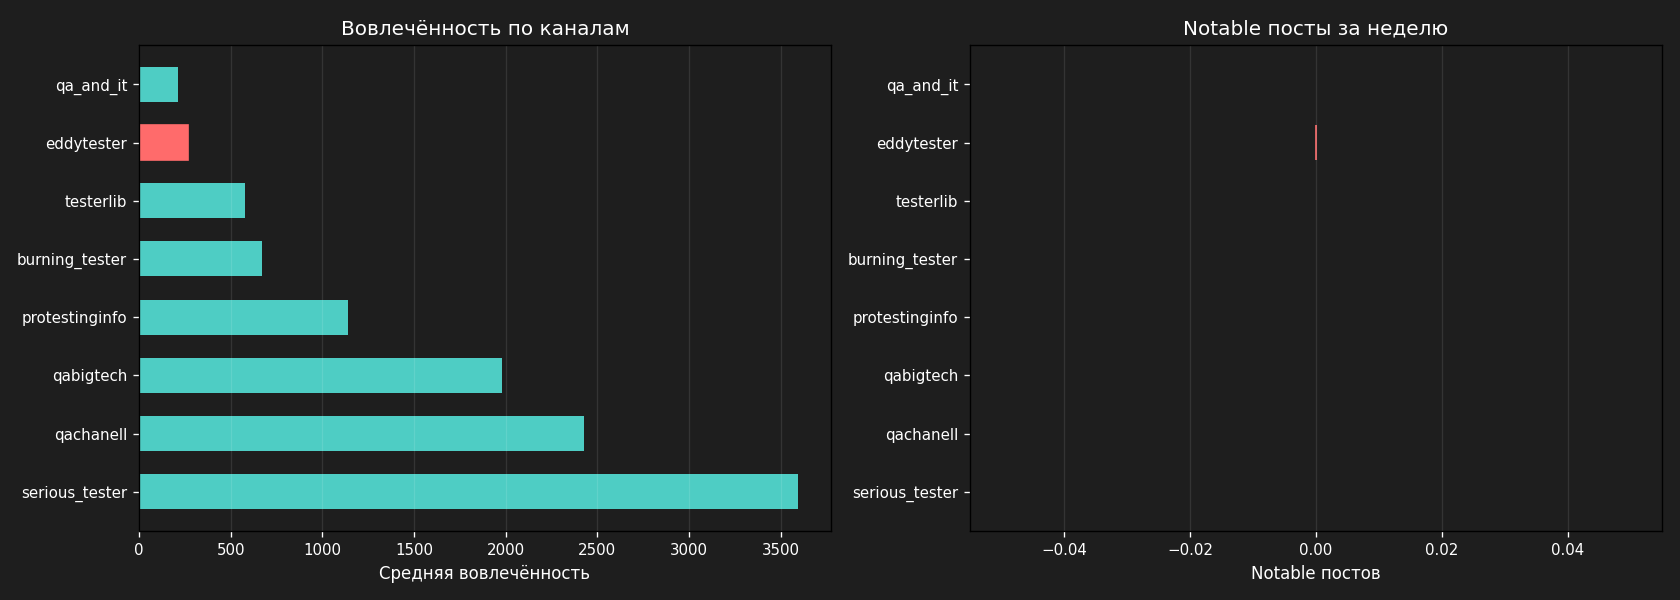
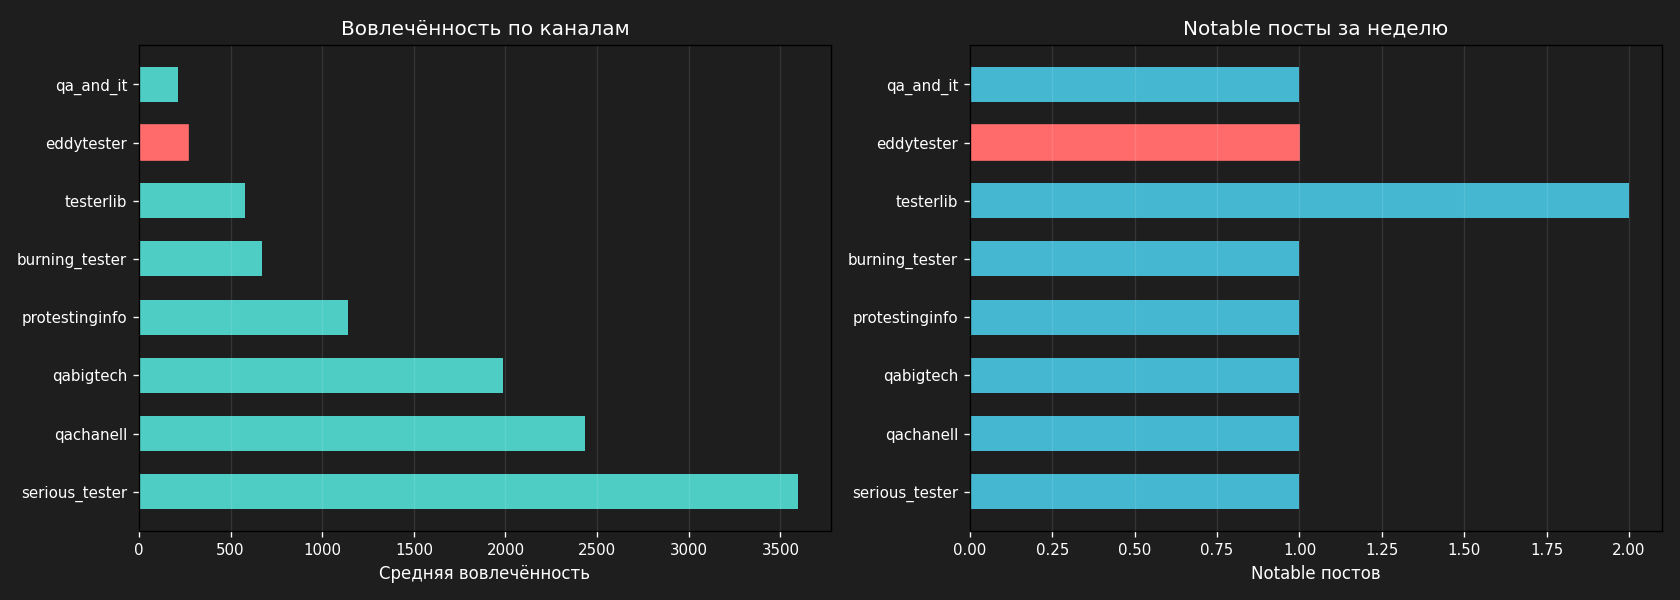
auto-save before pull

diff --git a/eddytester/Стратегия/Анализ/Notable/eddytester_tg414.md b/eddytester/Стратегия/Анализ/Notable/eddytester_tg414.md
@@ -1,0 +1,34 @@
+---
+channel: @eddytester
+tg_post_id: 414
+posted_at: 2026-05-18T06:34:36
+views: 235
+forwards: 8
+replies: 0
+category: api/bugs
+---
+
+## Post
+
+Баги в проде №1/10 (Сериал)
+
+В 2022 году Знакомые предложили потестировать ecommerce стартап из США. Part time. Конечно я согласился.
+
+Первый день на проекте. Мне дали одно из API интернет-магазина.
+Документация: одна страница в Confluence. Три эндпоинта. Без примеров.
+
+Коллега: «Там всё просто. GET /products, POST /orders, DELETE /cart. Дерзай».
+
+Через час я нашёл первый баг. Через два — ещё три.
+
+Спойлер: за неделю я нашёл 23 бага в этом «простом» API.
+
+Этот сериал - хроника той недели. Без пр
+
+## Analysis
+
+Пост представляет собой сторителлинг о поиске багов в API, что близко аудитории QA. Сериальный формат и элемент 'за кулисами' удерживают внимание. Фото не видно, но текст самодостаточен.
+
+## Why Works
+
+Залетает за счет конкретных примеров багов и вовлекающего повествования (спойлер, клиффхэнгер). Полезен для целевой аудитории.

diff --git a/eddytester/Стратегия/Анализ/Notable/burning_tester_tg1014.md b/eddytester/Стратегия/Анализ/Notable/burning_tester_tg1014.md
@@ -1,0 +1,29 @@
+---
+channel: @burning_tester
+tg_post_id: 1014
+posted_at: 2026-05-14T10:10:19
+views: 688
+forwards: 3
+replies: 25
+category: api/bugs
+---
+
+## Post
+
+💡Кого на самом деле заменит ИИ?
+
+Посмотрим по-научному — на график потенциального и текущего выполнения задач нейронками по индустриям.
+
+В целом удивительного тут не сильно много - самый маленький потенциал в прикладных сферах типа производства и строительства, а самый высокий в болтовне и текстах.
+
+📘 Чем дальше от физически существующих товаров и услуг, тем лучше с этим справляется киберинтеллект.
+
+Меня в ожиданиях только образование удивило - кажется, что его тоже можно капитально ИИ-фицироват
+
+## Analysis
+
+Пост содержит график (photo), который не виден в текстовой версии. Текст обсуждает потенциал и текущее использование ИИ в разных индустриях, автор выделяет аномалии в архитектуре и инжиниринге. Содержание познавательное, провоцирует дискуссию.
+
+## Why Works
+
+Пост содержит медиа (график), полный анализ невозможен без него. На основе текста — релевантная тема, вызывающая интерес, но без реакций нельзя утверждать, что пост залетел.

diff --git a/eddytester/Стратегия/Анализ/Notable/qabigtech_tg347.md b/eddytester/Стратегия/Анализ/Notable/qabigtech_tg347.md
@@ -1,0 +1,29 @@
+---
+channel: @qabigtech
+tg_post_id: 347
+posted_at: 2026-05-14T15:01:38
+views: 2054
+forwards: 39
+replies: 53
+category: career
+---
+
+## Post
+
+Все говорят, что сейчас сложно найти работу тестировщиком. И это правда — рынок перегрет джунами, вакансий меньше, конкуренция выросла. 
+
+Но есть один рынок, который все почему-то игнорируют. 😺
+
+В 1С — дефицит. Реальный. Компании сидят на системах и процессах из 90-х, им нужно строить что-то нормальное, а людей нет. QA в 1С берут охотно, потому что их просто не хватает.
+
+Проблема одна: 
+Большинство тестировщиков не знают, как туда зайти — потому что 1С выглядит как что то устаревшее и ненужное.
+
+
+## Analysis
+
+Пост содержит фото, текст не позволяет оценить визуальное сопровождение. Текст затрагивает актуальную для аудитории проблему поиска работы в тестировании и предлагает нишу 1С как альтернативу, что может вызвать интерес. Приглашение эксперта добавляет доверия.
+
+## Why Works
+
+Тема дефицита QA в 1С релевантна и предлагает конкретное решение, что привлекает внимание целевой аудитории.

diff --git a/eddytester/Стратегия/Анализ/Notable/qa_and_it_tg891.md b/eddytester/Стратегия/Анализ/Notable/qa_and_it_tg891.md
@@ -1,0 +1,27 @@
+---
+channel: @qa_and_it
+tg_post_id: 891
+posted_at: 2026-05-20T10:51:07
+views: 205
+forwards: 2
+replies: 0
+category: tools
+---
+
+## Post
+
+🧠 Мышление — наш главный навык. Качаем с Podlodka Soft Skills Crew
+
+Хотите лучше понимать, как вообще сейчас думать, принимать решения и не теряться в эпоху ИИ? 
+
+Тогда вам в новый сезон Podlodka Soft Skills Crew — «Мышление как навык», который пройдёт 25–29 мая.
+
+Организаторы конференции собрали очень сильную команду: IT-лидеры, авторы научпоп-книг, преподаватели и практики из индустрии. Будет и база про то, как работает мышление, и прикладные инструменты, которые можно использовать в работе ср
+
+## Analysis
+
+Ошибка анализа: Expecting value: line 1 column 1 (char 0)
+
+## Why Works
+
+Причина не определена

diff --git a/eddytester/Стратегия/Анализ/Notable/qachanell_tg3201.md b/eddytester/Стратегия/Анализ/Notable/qachanell_tg3201.md
@@ -1,0 +1,27 @@
+---
+channel: @qachanell
+tg_post_id: 3201
+posted_at: 2026-05-14T12:13:14
+views: 3670
+forwards: 1
+replies: 0
+category: api/bugs
+---
+
+## Post
+
+Спасибо! Мне очень приятно читать такие отзывы на работу с ИИ-помощниками!
+
+И я рад, что вы отмечаете, что более современные способы обучения отлично гармонируют с классическими тестами и заданиями, которые я не убирал с курсов.
+
+Напоминаю, что до 1 июня все мои курсы с ИИ-помощниками продаются по старой цене, а на программу из них действует скидка 30%.
+
+https://stepik.org/a/250559/pay?promo=0ac90723efb4014b
+
+## Analysis
+
+Ошибка анализа: Unterminated string starting at: line 3 column 16 (char 221)
+
+## Why Works
+
+Причина не определена

diff --git a/eddytester/Стратегия/Анализ/Notable/serious_tester_tg3347.md b/eddytester/Стратегия/Анализ/Notable/serious_tester_tg3347.md
@@ -1,0 +1,22 @@
+---
+channel: @serious_tester
+tg_post_id: 3347
+posted_at: 2026-05-17T10:42:18
+views: 4259
+forwards: 66
+replies: 0
+category: api/bugs
+---
+
+## Post
+
+Записи докладов Heisenbug 2025 Autumn
+Смотреть...
+
+## Analysis
+
+Пост содержит photo, текст не позволяет оценить содержимое и визуальное оформление. Указано, что это записи докладов конференции Heisenbug, что может быть полезно для аудитории QA.
+
+## Why Works
+
+Тема актуальна для целевой аудитории, но без просмотра медиа невозможно определить, насколько привлекательно подана информация.

diff --git a/eddytester/Стратегия/Анализ/Notable/protestinginfo_tg5091.md b/eddytester/Стратегия/Анализ/Notable/protestinginfo_tg5091.md
@@ -1,0 +1,21 @@
+---
+channel: @protestinginfo
+tg_post_id: 5091
+posted_at: 2026-05-16T13:42:26
+views: 1122
+forwards: 41
+replies: 0
+category: other
+---
+
+## Post
+
+
+
+## Analysis
+
+Ошибка анализа: Expecting value: line 1 column 1 (char 0)
+
+## Why Works
+
+Причина не определена

diff --git a/eddytester/Стратегия/Анализ/Notable/testerlib_tg4926.md b/eddytester/Стратегия/Анализ/Notable/testerlib_tg4926.md
@@ -1,0 +1,21 @@
+---
+channel: @testerlib
+tg_post_id: 4926
+posted_at: 2026-05-17T17:02:21
+views: 600
+forwards: 23
+replies: 0
+category: other
+---
+
+## Post
+
+
+
+## Analysis
+
+Текст поста (подпись к фото) не предоставлен, поэтому анализ невозможен.
+
+## Why Works
+
+Пост не может быть оценен из-за отсутствия текста.

diff --git a/eddytester/Стратегия/Анализ/Notable/testerlib_tg4927.md b/eddytester/Стратегия/Анализ/Notable/testerlib_tg4927.md
@@ -1,0 +1,21 @@
+---
+channel: @testerlib
+tg_post_id: 4927
+posted_at: 2026-05-17T17:02:21
+views: 593
+forwards: 23
+replies: 0
+category: other
+---
+
+## Post
+
+
+
+## Analysis
+
+Пост содержит photo, подпись отсутствует, текст не позволяет оценить.
+
+## Why Works
+
+Невозможно определить, так как нет текста для анализа.

diff --git a/eddytester/Стратегия/Анализ/Ежедневный/2026-05-21.md b/eddytester/Стратегия/Анализ/Ежедневный/2026-05-21.md
@@ -323,3 +323,11 @@ _Заполняется после анализа данных_
 
 # 📊 Ежедневный анализ контента — 2026-05-21
 
+
+
+---
+
+## 🔄 Обновление
+
+# 📊 Ежедневный анализ контента — 2026-05-21
+